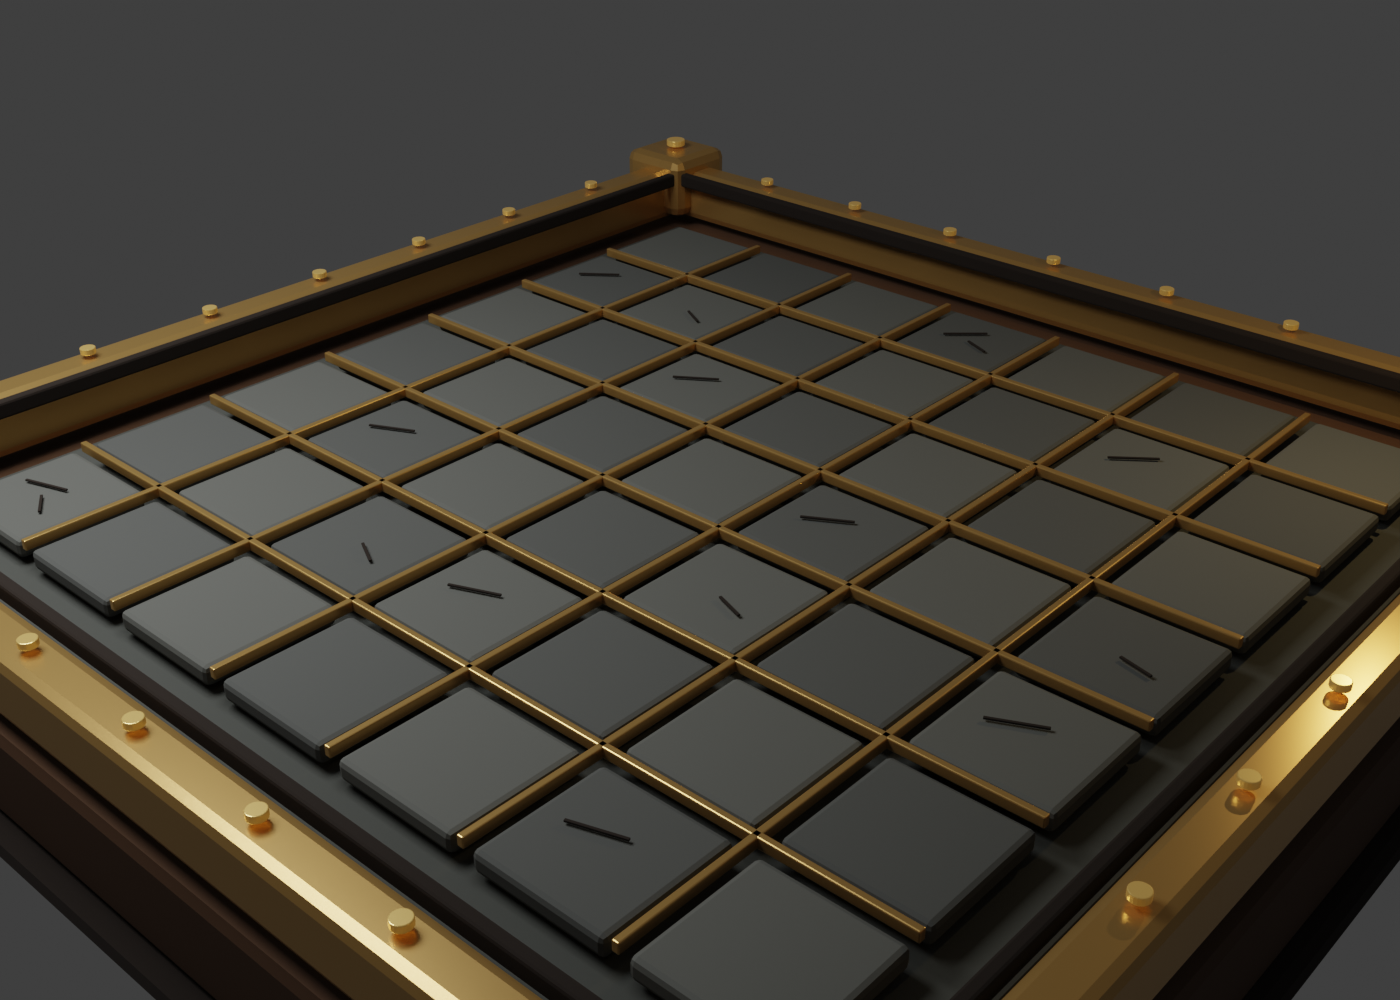
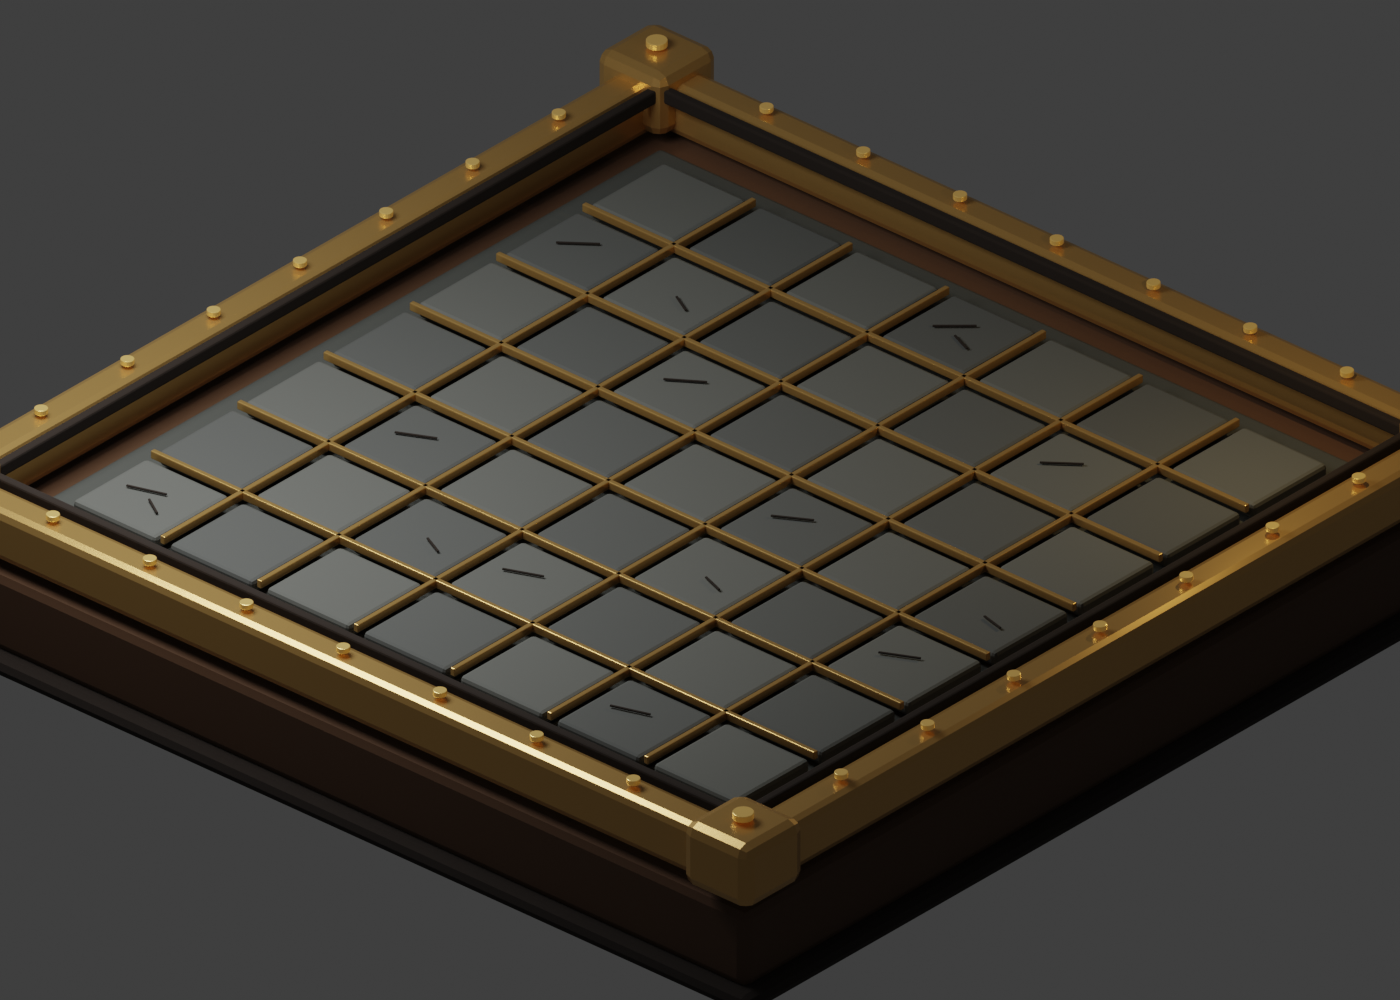
feat: add route board GLB asset factory

diff --git a/tools/blender/create_route_board_glb.py b/tools/blender/create_route_board_glb.py
@@ -18,6 +18,7 @@ from math import radians
 from pathlib import Path
 
 import bpy
+from mathutils import Vector
 
 
 CELL_SIZE = 1.0
@@ -55,6 +56,17 @@ def parse_args() -> argparse.Namespace:
             project_root() / "public" / "models" / "route" / "board-preview.png"
         ),
         help="Optional preview PNG path.",
+    )
+    parser.add_argument(
+        "--top-preview-output",
+        default=str(
+            project_root()
+            / "public"
+            / "models"
+            / "route"
+            / "board-preview-top.png"
+        ),
+        help="Optional top/near-top preview PNG path.",
     )
     return parser.parse_args(script_args)
 
@@ -348,12 +360,36 @@ def add_rivets(materials: dict[str, bpy.types.Material]) -> None:
         )
 
 
-def add_camera_and_lights() -> None:
+def point_camera_at(
+    camera: bpy.types.Object,
+    target: tuple[float, float, float],
+) -> None:
+    direction = Vector(target) - camera.location
+    camera.rotation_euler = direction.to_track_quat("-Z", "Y").to_euler()
+
+
+def add_preview_camera(
+    name: str,
+    location: tuple[float, float, float],
+    target: tuple[float, float, float],
+    ortho_scale: float,
+) -> bpy.types.Object:
+    bpy.ops.object.camera_add(location=location)
+    camera = bpy.context.object
+    camera.name = name
+    camera.data.type = "ORTHO"
+    camera.data.ortho_scale = ortho_scale
+    camera.data.lens = 55
+    point_camera_at(camera, target)
+    return camera
+
+
+def add_camera_and_lights() -> dict[str, bpy.types.Object]:
     bpy.ops.object.light_add(type="AREA", location=(-3.5, -4.2, 7.0))
     key = bpy.context.object
     key.name = "Preview_Key_Light"
-    key.data.energy = 520
-    key.data.size = 4.5
+    key.data.energy = 620
+    key.data.size = 5.2
 
     bpy.ops.object.light_add(type="POINT", location=(3.5, 2.8, 2.5))
     rim = bpy.context.object
@@ -361,11 +397,20 @@ def add_camera_and_lights() -> None:
     rim.data.energy = 80
     rim.data.color = (1.0, 0.74, 0.38)
 
-    bpy.ops.object.camera_add(location=(6.2, -7.0, 5.2), rotation=(radians(61), 0, radians(42)))
-    camera = bpy.context.object
-    bpy.context.scene.camera = camera
-    camera.name = "Preview_Camera"
-    camera.data.lens = 42
+    preview_camera = add_preview_camera(
+        "Preview_Camera",
+        location=(6.6, -7.4, 5.9),
+        target=(0.0, 0.0, 0.02),
+        ortho_scale=10.8,
+    )
+    top_camera = add_preview_camera(
+        "Preview_Top_Camera",
+        location=(0.0, 0.0, 12.0),
+        target=(0.0, 0.0, 0.0),
+        ortho_scale=10.35,
+    )
+    bpy.context.scene.camera = preview_camera
+    return {"preview": preview_camera, "top": top_camera}
 
 
 def configure_scene() -> None:
@@ -389,8 +434,16 @@ def export_glb(output_path: Path) -> None:
     )
 
 
-def render_preview(output_path: Path) -> None:
+def render_preview(
+    output_path: Path,
+    camera: bpy.types.Object,
+    resolution: tuple[int, int] | None = None,
+) -> None:
     output_path.parent.mkdir(parents=True, exist_ok=True)
+    bpy.context.scene.camera = camera
+    if resolution:
+        bpy.context.scene.render.resolution_x = resolution[0]
+        bpy.context.scene.render.resolution_y = resolution[1]
     bpy.context.scene.render.filepath = str(output_path)
     bpy.ops.render.render(write_still=True)
 
@@ -399,6 +452,7 @@ def main() -> None:
     args = parse_args()
     output_path = Path(args.output).resolve()
     preview_path = Path(args.preview_output).resolve()
+    top_preview_path = Path(args.top_preview_output).resolve()
 
     clear_scene()
     materials = create_materials()
@@ -406,16 +460,18 @@ def main() -> None:
     add_tiles_and_grid(materials)
     add_outer_frame(materials)
     add_rivets(materials)
-    add_camera_and_lights()
+    cameras = add_camera_and_lights()
     configure_scene()
 
     export_glb(output_path)
     if args.preview:
-        render_preview(preview_path)
+        render_preview(preview_path, cameras["preview"], (1400, 1000))
+        render_preview(top_preview_path, cameras["top"], (1200, 1200))
 
     print(f"Exported {output_path}")
     if args.preview:
         print(f"Rendered {preview_path}")
+        print(f"Rendered {top_preview_path}")
 
 
 if __name__ == "__main__":

diff --git a/public/models/route/README.md b/public/models/route/README.md
@@ -27,6 +27,12 @@ Optional preview render:
 blender --background --python tools/blender/create_route_board_glb.py -- --preview
 ```
 
+That command writes both:
+
+- `board-preview.png` - cinematic 3/4 preview with the full board visible.
+- `board-preview-top.png` - top/near-top preview for checking all 49 tiles and
+  the full outer frame.
+
 ## Coordinate and orientation contract
 
 The generated GLB is exported as Y-up glTF: